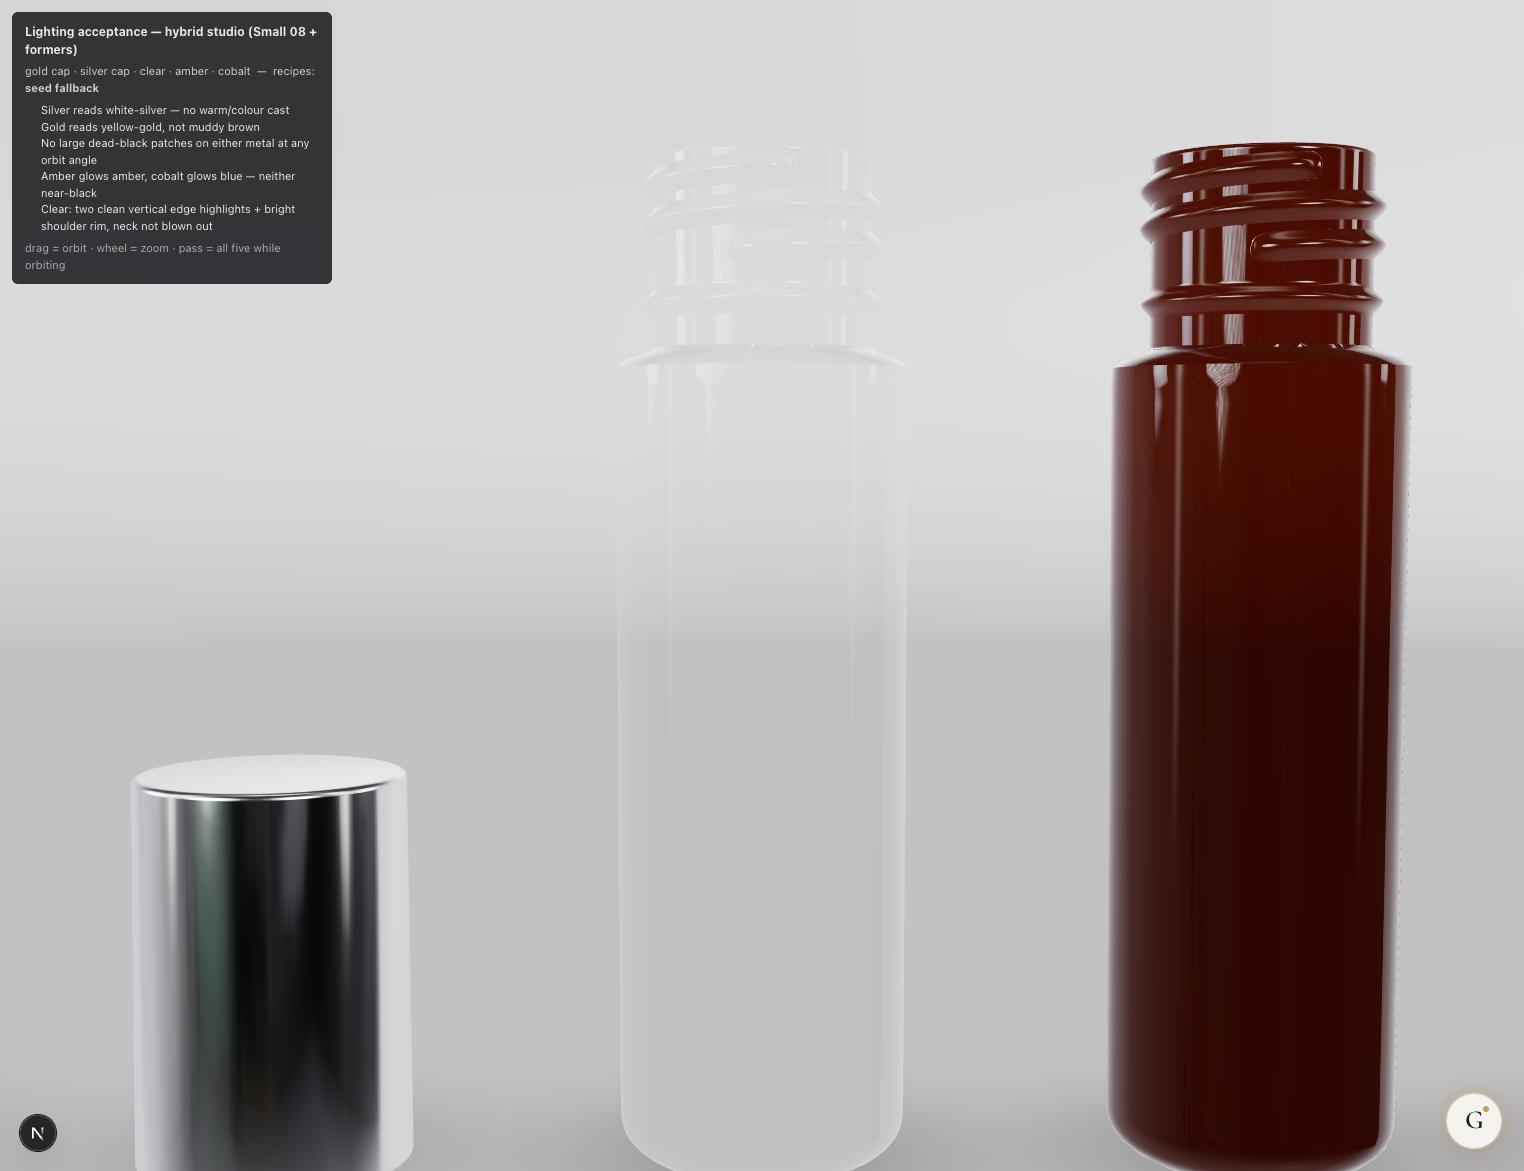
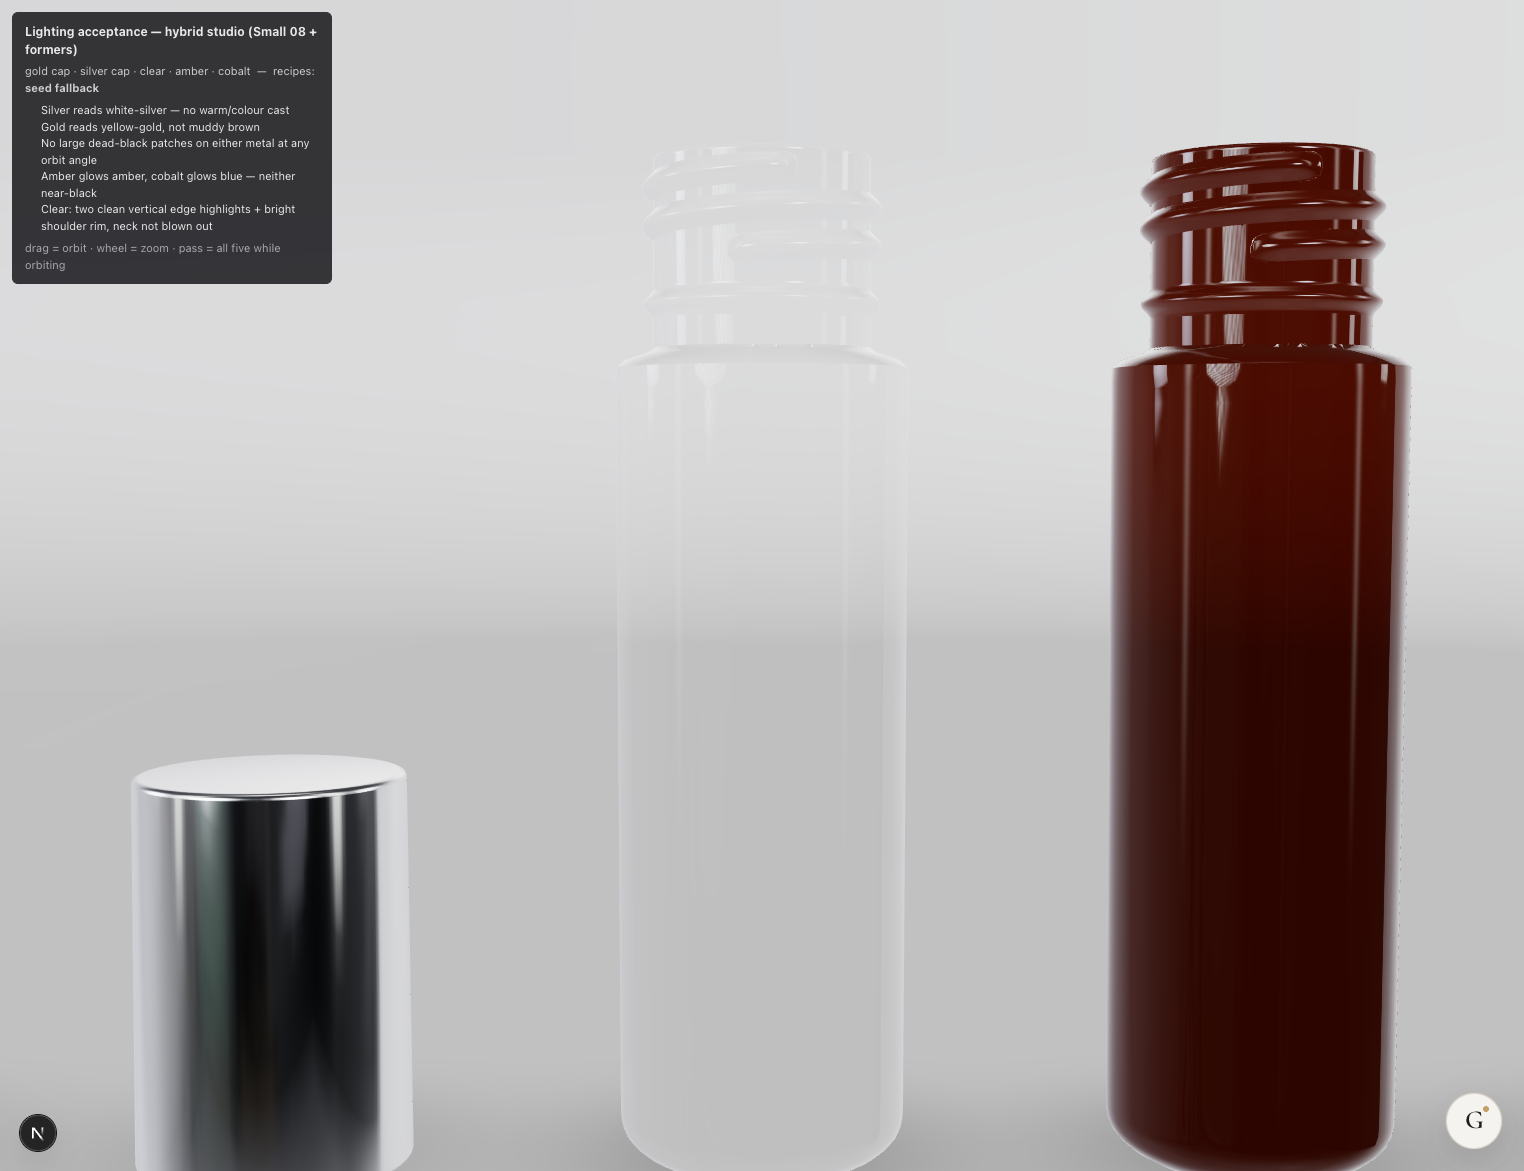
Take the halo off the volume glasses; stop the neck refraction crawl
Jordan's second live pass, on a clean build:

- Amber and cobalt wore a glowing outline. They are the volume-glass path
  (MeshTransmissionMaterial), and grazing-angle Fresnel put the side
  strips' reflection exactly on the cylinder silhouette — the same
  placement that gives CLEAR its edge definition reads as a halo on dark
  glass. Strips move z=+1 -> +1.6: the line lands just inboard, clear
  keeps its edges (row re-verified), ambers show dark clean contours
  (amber + cobalt PDP captures in docs/configurator/lighting-test/).

- "Weird movement in the neck": the MTM backside refraction buffer ran at
  256px and aliased the thread helix into a crawl during auto-rotate.
  resolution 512 -> 768, backsideResolution 256 -> 512 — quality knobs in
  the viewer, not locked look values.

Gallery re-captured at the final emitter values.

diff --git a/src/components/products/StudioEnvironment.tsx b/src/components/products/StudioEnvironment.tsx
@@ -56,9 +56,13 @@ type Emitter = {
  *  seeds (strips 3@z=+2 → 4.5@z=±1 → feathered); geometry unchanged. */
 const EMITTERS: Emitter[] = [
   // left + right vertical strips: clear-glass edge highlights, graded
-  // sheens (not stripes) in the metal caps
-  { position: [-4, 2, 1], scale: [1.6, 8], intensity: 6, sigma: [0.3, 0.55] },
-  { position: [4, 2, 1], scale: [1.6, 8], intensity: 6, sigma: [0.3, 0.55] },
+  // sheens (not stripes) in the metal caps. z=+1.6: at z=+1 the strips sat
+  // nearly beside the bottle and grazing-angle Fresnel wrapped the DARK
+  // volume glasses (amber/cobalt) in a glowing outline — "halo around the
+  // bottle" (Jordan). Forward-biased, the line lands just inboard of the
+  // silhouette: clear keeps its edge definition, ambers stop haloing.
+  { position: [-4, 2, 1.6], scale: [1.6, 8], intensity: 6, sigma: [0.3, 0.55] },
+  { position: [4, 2, 1.6], scale: [1.6, 8], intensity: 6, sigma: [0.3, 0.55] },
   // overhead softbox: cap tops and bottle shoulders
   { position: [0, 6, 0], scale: [6, 3], intensity: 2.5, sigma: [0.45, 0.45] },
   // broad dim backlight: amber/cobalt transmit instead of reading black

diff --git a/src/components/products/Bottle3DViewer.tsx b/src/components/products/Bottle3DViewer.tsx
@@ -405,7 +405,10 @@ function Bottle({ url, preset, closure, capMat, ballMat, rollerVariant,
             thicknessMap={preset.thicknessBake === false ? null : thicknessTex}
             roughnessMap={preset.frostMask ? frostTex : null}
             backside backsideThickness={preset.thickness}
-            samples={16} resolution={512} backsideResolution={256}
+            // backside at 256 aliased the thread helix into a crawling
+            // shimmer during auto-rotate ("weird movement in the neck",
+            // Jordan) — quality knobs, not look values
+            samples={16} resolution={768} backsideResolution={512}
             roughness={preset.roughness} ior={preset.ior}
             chromaticAberration={preset.dispersion * 0.055}
             clearcoat={preset.clearcoat} clearcoatRoughness={preset.clearcoatRoughness}
